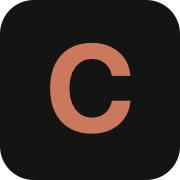
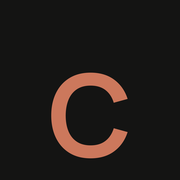
Changed the meta preview image to the new one for Catalyst. Also added the new image to the assets folder and updated the open graph image on the home page.

diff --git a/index.html b/index.html
@@ -1,8 +1,8 @@
 <!DOCTYPE html>
-<!-- Last Published: Mon Apr 06 2026 16:56:02 GMT+0000 (Coordinated Universal Time) --><html data-wf-domain="catalystwebsystems.com" lang="en"><head><meta charset="utf-8"/><title>Home | Catalyst Web Systems</title><meta content="Catalyst Web Systems builds conversion-focused websites and lead automation for small and mid-size US businesses — so every call, form, and inquiry turns into revenue." name="description"/><meta content="Home | Catalyst Web Systems" property="og:title"/><meta content="Catalyst Web Systems builds conversion-focused websites and lead automation for small and mid-size US businesses — so every call, form, and inquiry turns into revenue." property="og:description"/><meta content="Home | Catalyst Web Systems" name="twitter:title"/><meta content="Catalyst Web Systems builds conversion-focused websites and lead automation for small and mid-size US businesses — so every call, form, and inquiry turns into revenue." name="twitter:description"/><meta content="website" property="og:type"/><meta content="summary_large_image" name="twitter:card"/><meta content="width=device-width, initial-scale=1" name="viewport"/><link href="assets/vendor/webflow/css/cws-site.shared.e243ae639.min.css" rel="stylesheet" type="text/css"/><style>html.w-mod-js:not(.w-mod-ix3) :is(.artifact_container:not([aria-hidden="true"]) .artifact_metadata) {visibility: hidden !important;}</style><script type="text/javascript">!function(o,c){var n=c.documentElement,t=" w-mod-";n.className+=t+"js",("ontouchstart"in o||o.DocumentTouch&&c instanceof DocumentTouch)&&(n.className+=t+"touch")}(window,document);</script><link href="favicon.svg" rel="icon" type="image/svg+xml"/><link href="apple-touch-icon.png" rel="apple-touch-icon"/><link href="https://catalystwebsystems.com/" rel="canonical"/><meta content="https://catalystwebsystems.com/" property="og:url"/><meta content="https://catalystwebsystems.com/assets/images/open-graph.jpg" name="twitter:image"/><meta content="index,follow" name="robots"/><style>.anti-flicker, .anti-flicker * {visibility: hidden !important; opacity: 0 !important;}</style><style>[data-wf-hidden-variation], [data-wf-hidden-variation] * {
+<!-- Last Published: Mon Apr 06 2026 16:56:02 GMT+0000 (Coordinated Universal Time) --><html data-wf-domain="catalystwebsystems.com" lang="en"><head><meta charset="utf-8"/><title>Home | Catalyst Web Systems</title><meta content="Catalyst Web Systems builds conversion-focused websites and lead automation for small and mid-size US businesses — so every call, form, and inquiry turns into revenue." name="description"/><meta content="Home | Catalyst Web Systems" property="og:title"/><meta content="Catalyst Web Systems builds conversion-focused websites and lead automation for small and mid-size US businesses — so every call, form, and inquiry turns into revenue." property="og:description"/><meta content="Home | Catalyst Web Systems" name="twitter:title"/><meta content="Catalyst Web Systems builds conversion-focused websites and lead automation for small and mid-size US businesses — so every call, form, and inquiry turns into revenue." name="twitter:description"/><meta content="website" property="og:type"/><meta content="summary_large_image" name="twitter:card"/><meta content="width=device-width, initial-scale=1" name="viewport"/><link href="assets/vendor/webflow/css/cws-site.shared.e243ae639.min.css" rel="stylesheet" type="text/css"/><style>html.w-mod-js:not(.w-mod-ix3) :is(.artifact_container:not([aria-hidden="true"]) .artifact_metadata) {visibility: hidden !important;}</style><script type="text/javascript">!function(o,c){var n=c.documentElement,t=" w-mod-";n.className+=t+"js",("ontouchstart"in o||o.DocumentTouch&&c instanceof DocumentTouch)&&(n.className+=t+"touch")}(window,document);</script><link href="favicon.svg" rel="icon" type="image/svg+xml"/><link href="apple-touch-icon.png" rel="apple-touch-icon"/><link href="https://catalystwebsystems.com/" rel="canonical"/><meta content="https://catalystwebsystems.com/" property="og:url"/><meta content="https://catalystwebsystems.com/assets/images/open-graph-catalyst.jpg" name="twitter:image"/><meta content="index,follow" name="robots"/><style>.anti-flicker, .anti-flicker * {visibility: hidden !important; opacity: 0 !important;}</style><style>[data-wf-hidden-variation], [data-wf-hidden-variation] * {
         display: none !important;
       }</style><script type="text/javascript">(function(e){var s={r:[]};e.wf={r:s.r,ready:t=>{s.r.push(t)}}})(window)</script><!------- Social & Sharing ------->
-<meta content="https://catalystwebsystems.com/assets/images/open-graph.jpg" property="og:image"/>
+<meta content="https://catalystwebsystems.com/assets/images/open-graph-catalyst.jpg" property="og:image"/>
 <meta content="website" property="og:type"/>
 <meta content="summary_large_image" name="twitter:card"/>
 <meta content="@CatalystWebSys" name="twitter:site"/>

diff --git a/services.html b/services.html
@@ -15,13 +15,13 @@
   <meta property="og:description" content="Catalyst Web Systems builds websites, lead automations, and operational systems for small and mid-size US businesses — so every lead is captured, followed up, and converted into revenue.">
   <meta property="og:type" content="website">
   <meta property="og:url" content="https://catalystwebsystems.com/services.html">
-  <meta property="og:image" content="https://catalystwebsystems.com/assets/images/open-graph.jpg">
+  <meta property="og:image" content="https://catalystwebsystems.com/assets/images/open-graph-catalyst.jpg">
   <meta name="twitter:card" content="summary_large_image">
   <meta name="twitter:site" content="@CatalystWebSys">
   <meta name="twitter:creator" content="@CatalystWebSys">
   <meta name="twitter:title" content="Services | Catalyst Web Systems">
   <meta name="twitter:description" content="Catalyst Web Systems builds websites, lead automations, and operational systems for small and mid-size US businesses — so every lead is captured, followed up, and converted into revenue.">
-  <meta name="twitter:image" content="https://catalystwebsystems.com/assets/images/open-graph.jpg">
+  <meta name="twitter:image" content="https://catalystwebsystems.com/assets/images/open-graph-catalyst.jpg">
   <meta name="robots" content="index,follow">
   <link href="favicon.svg" rel="icon" type="image/svg+xml">
   <link href="apple-touch-icon.png" rel="apple-touch-icon">

diff --git a/privacy-policy.html b/privacy-policy.html
@@ -10,13 +10,13 @@
   <meta property="og:description" content="Read the Catalyst Web Systems privacy policy covering website inquiries, booking requests, and data handling." />
   <meta property="og:type" content="website" />
   <meta property="og:url" content="https://catalystwebsystems.com/privacy-policy.html" />
-  <meta property="og:image" content="https://catalystwebsystems.com/assets/images/open-graph.jpg" />
+  <meta property="og:image" content="https://catalystwebsystems.com/assets/images/open-graph-catalyst.jpg" />
   <meta name="twitter:card" content="summary_large_image" />
   <meta name="twitter:site" content="@CatalystWebSys" />
   <meta name="twitter:creator" content="@CatalystWebSys" />
   <meta name="twitter:title" content="Privacy Policy | Catalyst Web Systems" />
   <meta name="twitter:description" content="Read the Catalyst Web Systems privacy policy covering website inquiries, booking requests, and data handling." />
-  <meta name="twitter:image" content="https://catalystwebsystems.com/assets/images/open-graph.jpg" />
+  <meta name="twitter:image" content="https://catalystwebsystems.com/assets/images/open-graph-catalyst.jpg" />
   <meta name="robots" content="index,follow" />
   <link href="favicon.svg" rel="icon" type="image/svg+xml" />
   <link href="apple-touch-icon.png" rel="apple-touch-icon" />

diff --git a/terms-of-service.html b/terms-of-service.html
@@ -10,13 +10,13 @@
   <meta property="og:description" content="Read the Catalyst Web Systems terms of service for website use, booking requests, and legal conditions." />
   <meta property="og:type" content="website" />
   <meta property="og:url" content="https://catalystwebsystems.com/terms-of-service.html" />
-  <meta property="og:image" content="https://catalystwebsystems.com/assets/images/open-graph.jpg" />
+  <meta property="og:image" content="https://catalystwebsystems.com/assets/images/open-graph-catalyst.jpg" />
   <meta name="twitter:card" content="summary_large_image" />
   <meta name="twitter:site" content="@CatalystWebSys" />
   <meta name="twitter:creator" content="@CatalystWebSys" />
   <meta name="twitter:title" content="Terms of Service | Catalyst Web Systems" />
   <meta name="twitter:description" content="Read the Catalyst Web Systems terms of service for website use, booking requests, and legal conditions." />
-  <meta name="twitter:image" content="https://catalystwebsystems.com/assets/images/open-graph.jpg" />
+  <meta name="twitter:image" content="https://catalystwebsystems.com/assets/images/open-graph-catalyst.jpg" />
   <meta name="robots" content="index,follow" />
   <link href="favicon.svg" rel="icon" type="image/svg+xml" />
   <link href="apple-touch-icon.png" rel="apple-touch-icon" />

diff --git a/about.html b/about.html
@@ -20,7 +20,7 @@
     content="Learn how Catalyst Web Systems helps small and mid-size US businesses grow through conversion-focused websites, lead automation, and practical systems that keep every inquiry moving."
   >
   <meta property="og:type" content="website">
-  <meta property="og:image" content="https://catalystwebsystems.com/assets/images/open-graph.jpg">
+  <meta property="og:image" content="https://catalystwebsystems.com/assets/images/open-graph-catalyst.jpg">
   <meta property="og:url" content="https://catalystwebsystems.com/about.html">
   <meta name="twitter:card" content="summary_large_image">
   <meta name="twitter:site" content="@CatalystWebSys">
@@ -30,7 +30,7 @@
     name="twitter:description"
     content="Learn how Catalyst Web Systems helps small and mid-size US businesses grow through conversion-focused websites, lead automation, and practical systems that keep every inquiry moving."
   >
-  <meta name="twitter:image" content="https://catalystwebsystems.com/assets/images/open-graph.jpg">
+  <meta name="twitter:image" content="https://catalystwebsystems.com/assets/images/open-graph-catalyst.jpg">
   <meta name="robots" content="index,follow">
   <link href="favicon.svg" rel="icon" type="image/svg+xml">
   <link href="apple-touch-icon.png" rel="apple-touch-icon">

diff --git a/call.html b/call.html
@@ -20,7 +20,7 @@
     content="Book a free 15-minute call with Catalyst Web Systems to review your website, lead flow, and growth opportunities."
   >
   <meta property="og:type" content="website">
-  <meta property="og:image" content="https://catalystwebsystems.com/assets/images/open-graph.jpg">
+  <meta property="og:image" content="https://catalystwebsystems.com/assets/images/open-graph-catalyst.jpg">
   <meta property="og:url" content="https://catalystwebsystems.com/call.html">
   <meta name="twitter:card" content="summary_large_image">
   <meta name="twitter:site" content="@CatalystWebSys">
@@ -30,7 +30,7 @@
     name="twitter:description"
     content="Book a free 15-minute call with Catalyst Web Systems to review your website, lead flow, and growth opportunities."
   >
-  <meta name="twitter:image" content="https://catalystwebsystems.com/assets/images/open-graph.jpg">
+  <meta name="twitter:image" content="https://catalystwebsystems.com/assets/images/open-graph-catalyst.jpg">
   <meta name="robots" content="index,follow">
   <link href="favicon.svg" rel="icon" type="image/svg+xml">
   <link href="apple-touch-icon.png" rel="apple-touch-icon">
